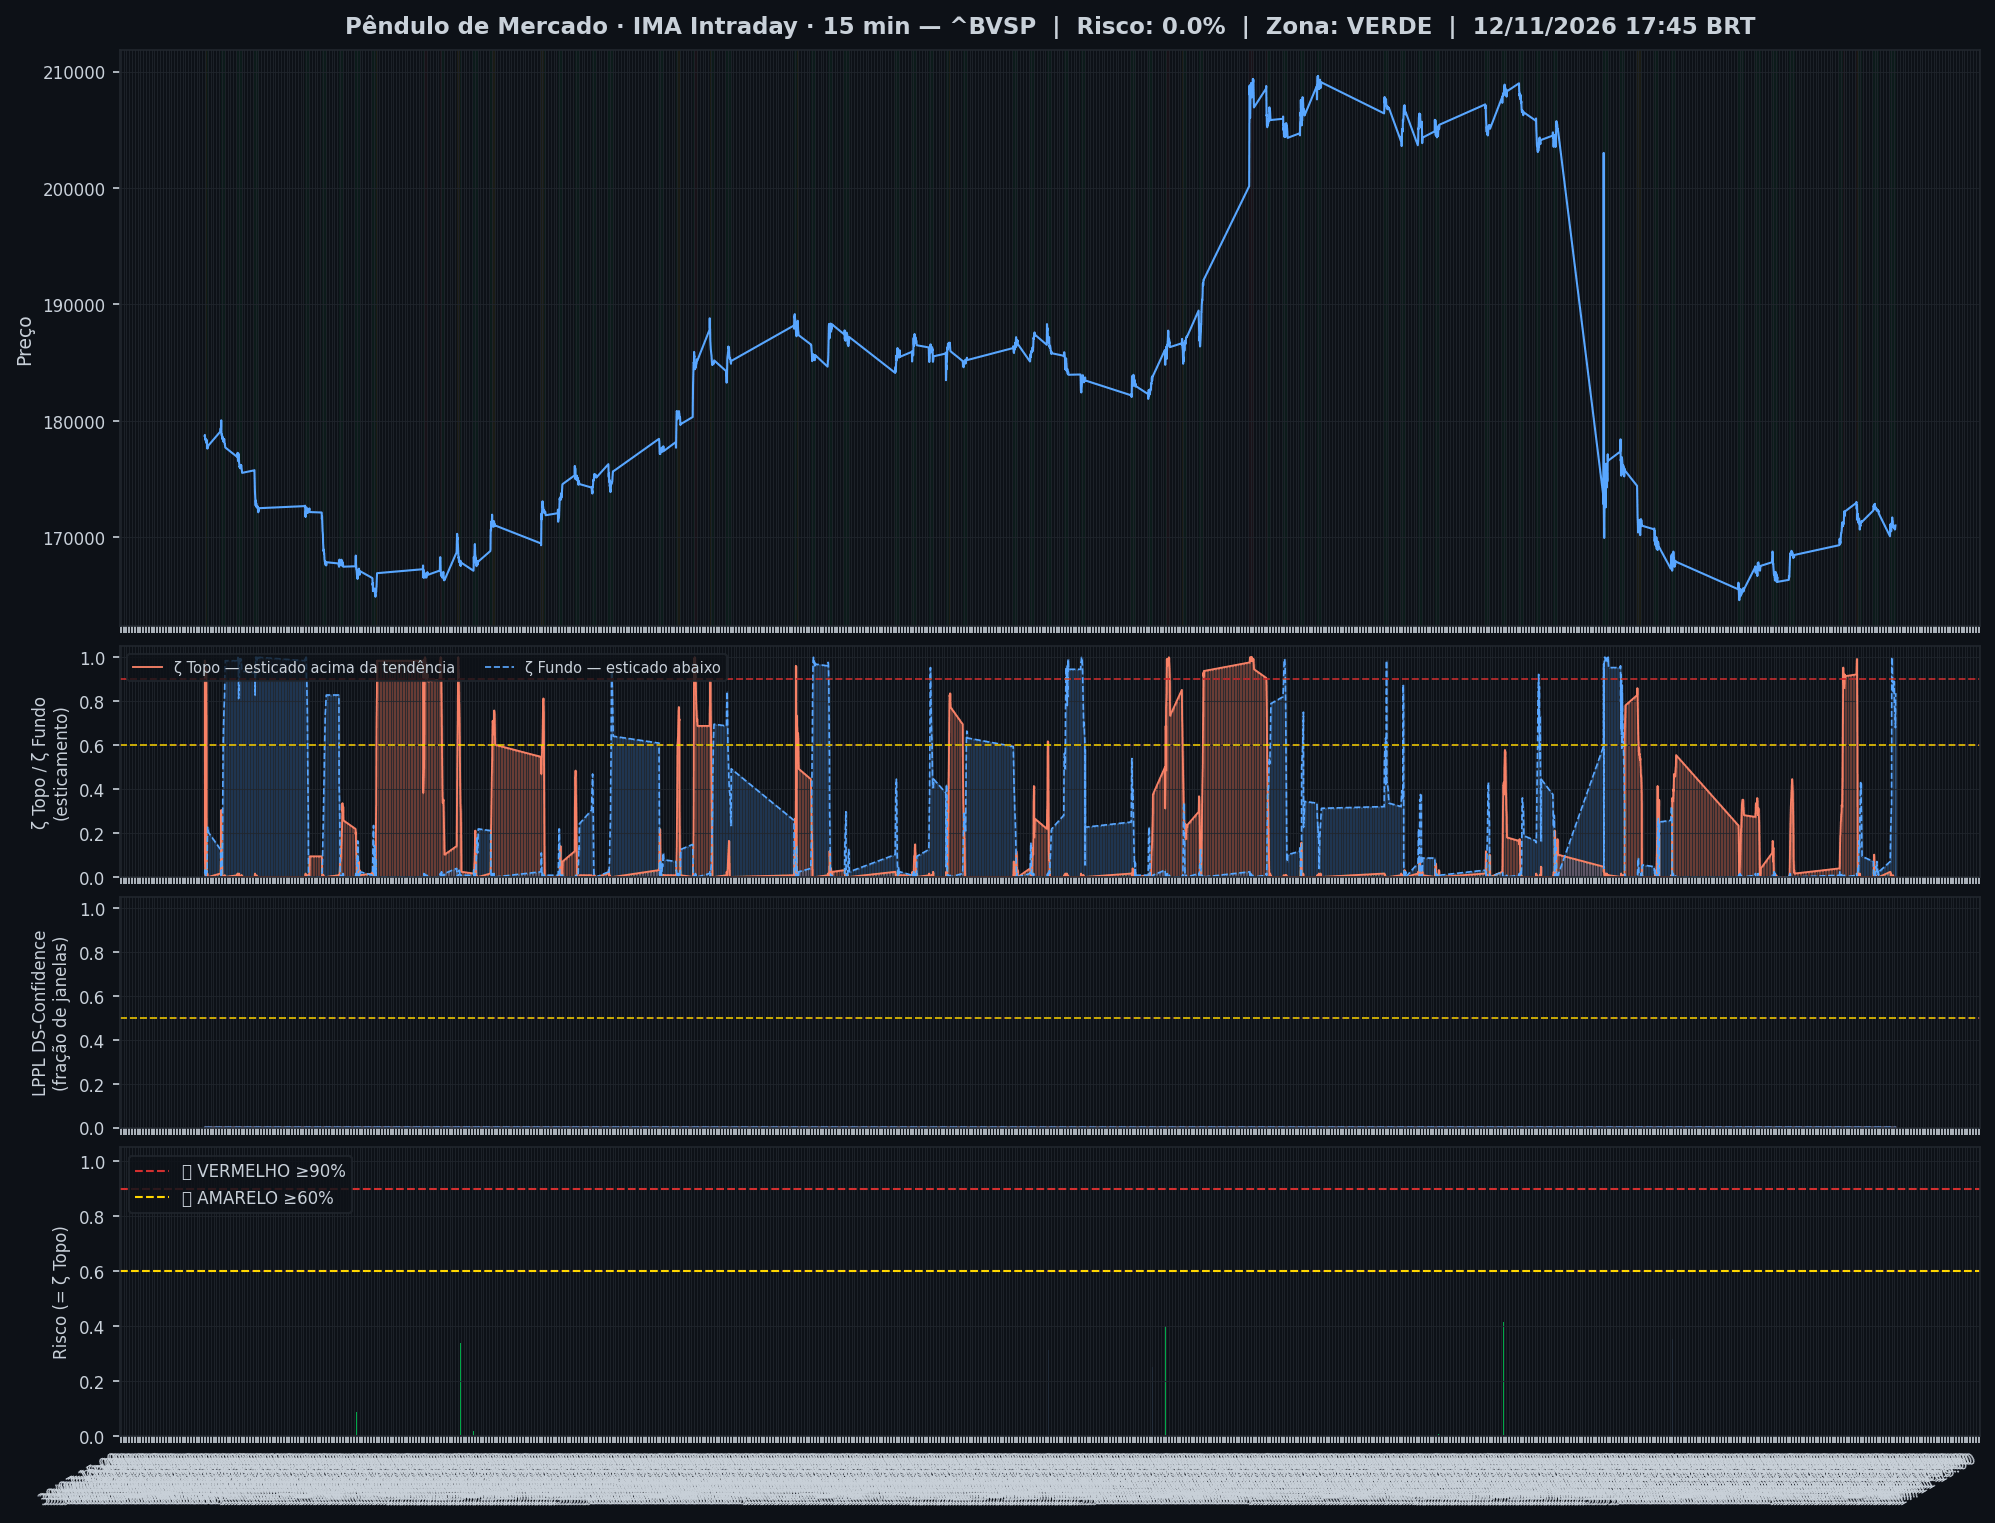
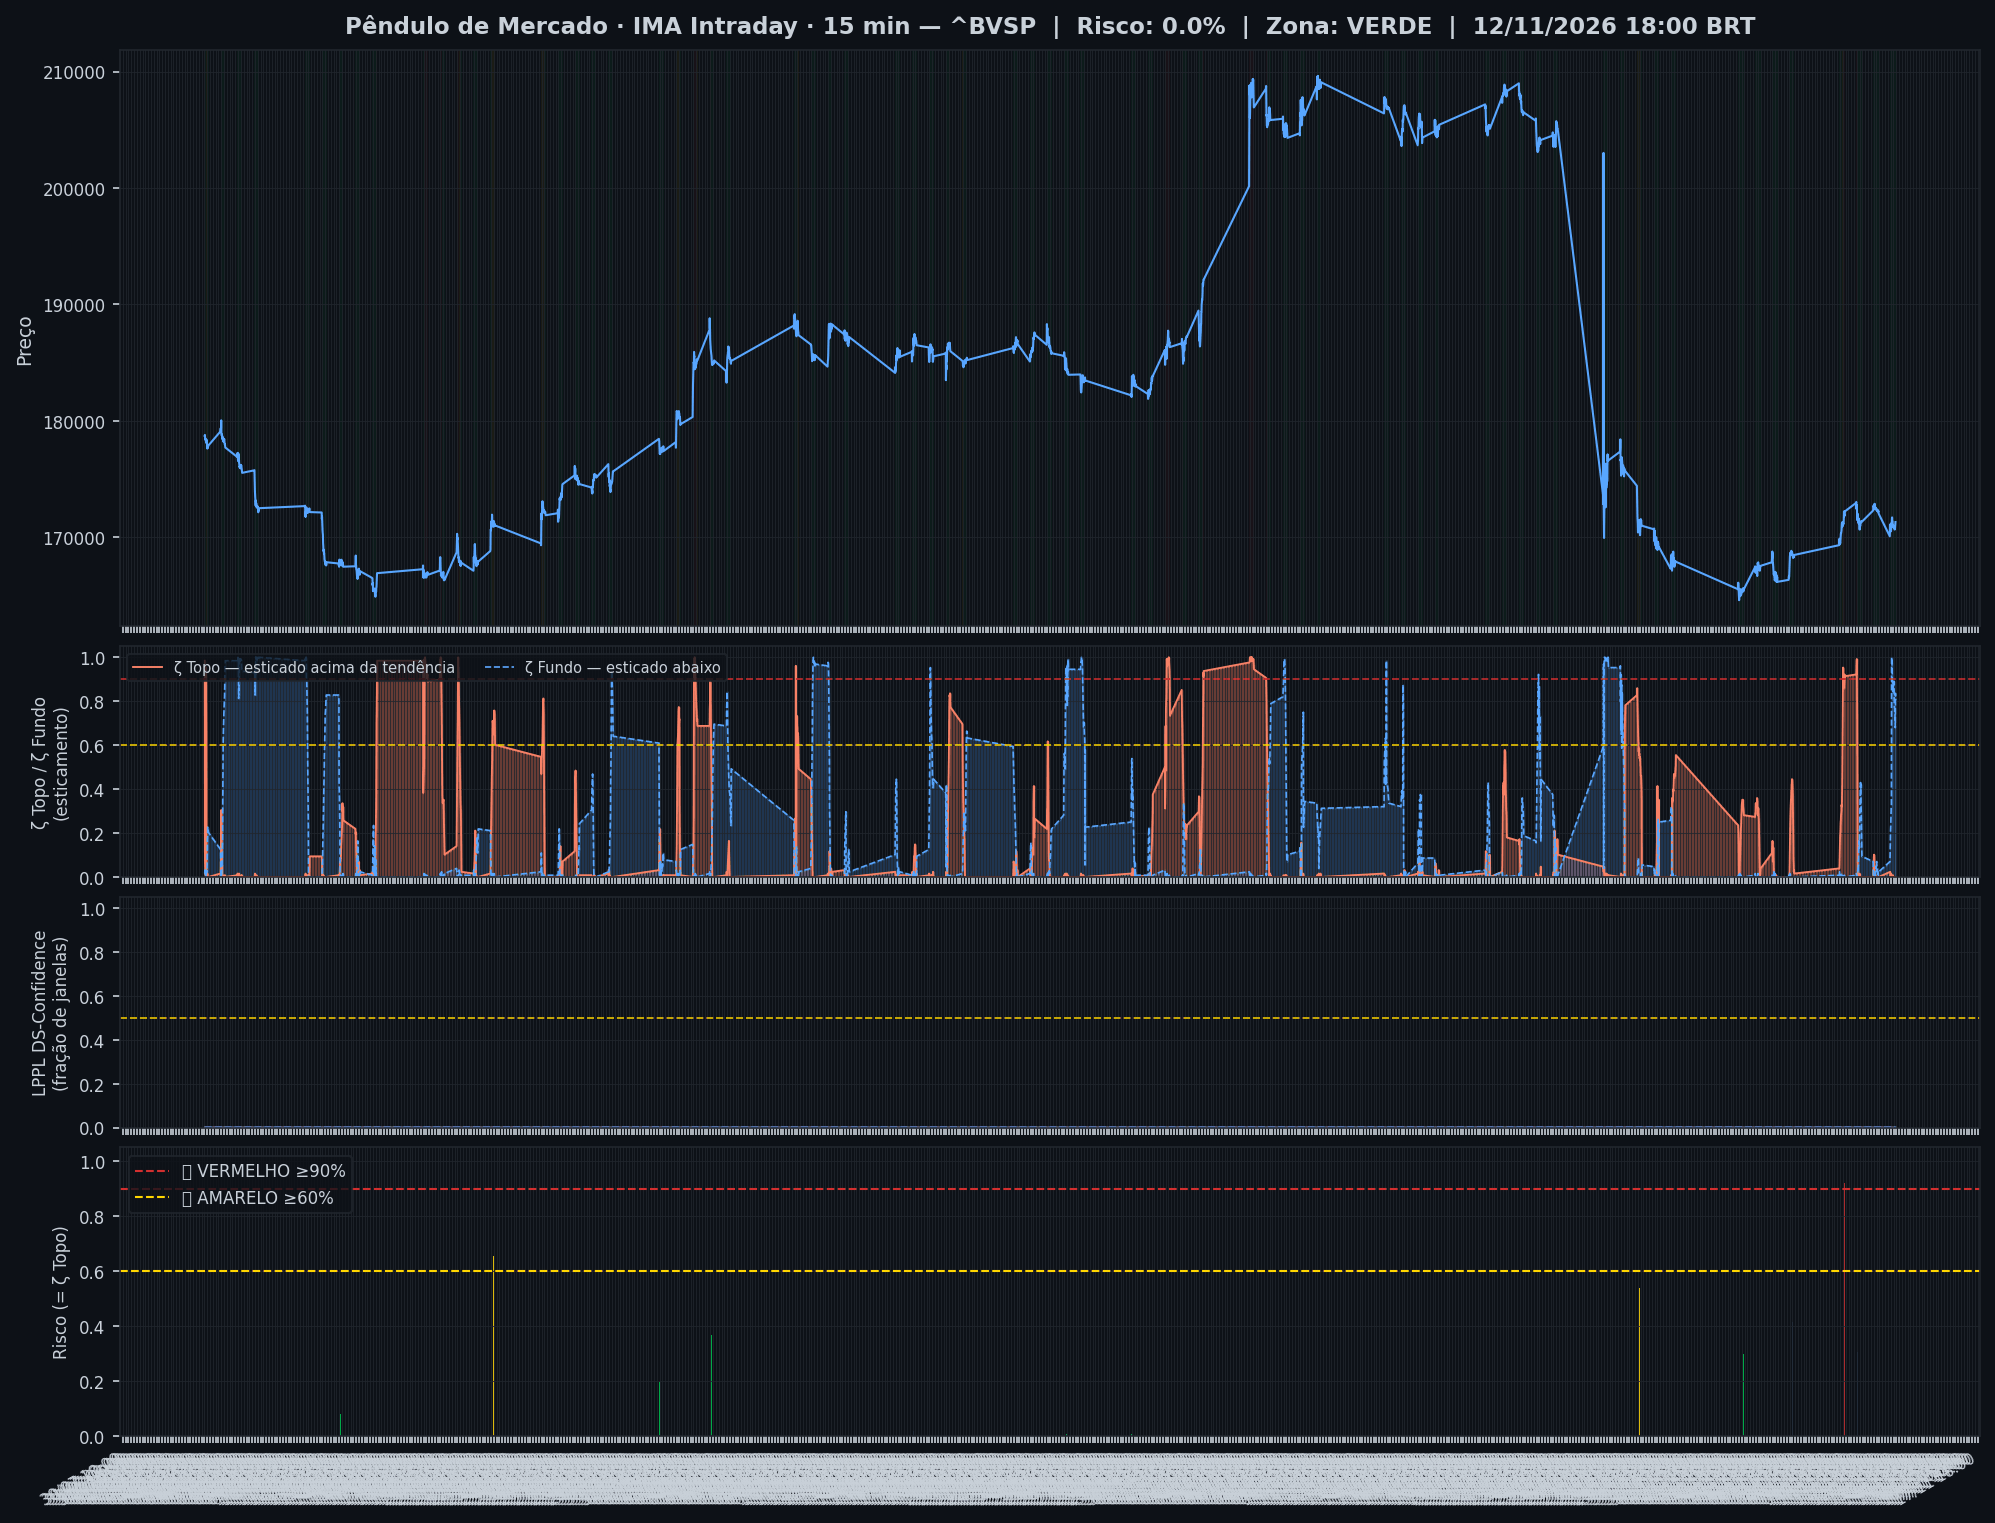
🤖 Auto: Sinal 12/11/2026 18:16

Changed region(s): [[0.0932, 0.432, 0.9634, 0.5863], [0.0311, 0.9258, 0.9945, 0.9875]]

diff --git a/content/intraday/2026-11-12.md b/content/intraday/2026-11-12.md
@@ -1,10 +1,10 @@
 ---
-title: "🟢 Intraday 12/11/2026 17:45 BRT — VERDE"
+title: "🟢 Intraday 12/11/2026 18:00 BRT — VERDE"
 date: 2026-11-12
 tags: [intraday]
 ---
 
-> [!info] Onde o mercado está agora (12/11 17:45, candles de 15 min): **🔵 Esticado para baixo**
+> [!info] Onde o mercado está agora (12/11 18:00, candles de 15 min): **🔵 Esticado para baixo**
 > `Pânico ◀──●──────────────────▶ Euforia`
 >
 > O Ibovespa caiu mais rápido que o normal e está abaixo da sua faixa habitual.
@@ -20,26 +20,26 @@ tags: [intraday]
 > | 📍 **Sinais** | hoje: nenhum sinal | [abrir](sinais-topo-fundo/) |
 > | 🧪 **Placar ao vivo** | 1 operação(ões), 0 com lucro, soma -0,8% | [abrir](operacoes/) |
 
-> [!success] IMA Intraday · 15 min (12/11 17:45): 🟢 **VERDE** — Risco 0% · ＝ +0 p.p. vs leitura anterior
+> [!success] IMA Intraday · 15 min (12/11 18:00): 🟢 **VERDE** — Risco 0% · ＝ +0 p.p. vs leitura anterior
 > `░░░░░░░░░░░░░░░░░░░░`
 > Preço na faixa normal em torno da tendência.
 
 
-> [!warning] ⚠ Nível alto agora — IMA Intraday · 15 min (12/11 17:45)
-> - 🔵 **ζ Fundo 84%** — preço esticado abaixo da tendência
+> [!warning] ⚠ Nível alto agora — IMA Intraday · 15 min (12/11 18:00)
+> - 🔵 **ζ Fundo 80%** — preço esticado abaixo da tendência
 
 > [!note] 🧭 IMA Diário · viés (11/11): 🌱 **Fundo se desfazendo**
 > 📚 só contexto: o pânico passou; sem vantagem estatística confirmada para comprar só por isso
 >
 > *Leitura educacional baseada em 26 anos de dados, não recomendação. [Como usar](../metodologia/crise#3-como-usar-na-prática).*
 
-| Indicador — IMA Intraday · 15 min (12/11 17:45) | Valor |
+| Indicador — IMA Intraday · 15 min (12/11 18:00) | Valor |
 |---|---|
 | 🔴 ζ Topo — preço esticado acima da tendência | **0%** |
-| 🔵 ζ Fundo — preço esticado abaixo da tendência | 🔵 **84%** |
+| 🔵 ζ Fundo — preço esticado abaixo da tendência | 🔵 **80%** |
 | 🫧 LPPL bolha — alta super-exponencial (risco de crash) | 0% |
 | 🫧 LPPL antibolha — queda super-exponencial (risco de repique) | 0% |
-| 📊 Ibovespa | 171.036 pts |
+| 📊 Ibovespa | 171.324 pts |
 
 ![Gráfico do sinal](../graficos/sinal_intraday.png)
 
@@ -47,6 +47,7 @@ tags: [intraday]
 
 | Data | Zona | Evento | Risco | ζ Topo | ζ Fundo | LPPL |
 |---|---|---|---|---|---|---|
+| 2026-11-12 18:00 | 🟢 VERDE |  | **0%** | 0% | 🔵 **80%** | 0% |
 | 2026-11-12 17:45 | 🟢 VERDE |  | **0%** | 0% | 🔵 **84%** | 0% |
 | 2026-11-12 17:30 | 🟢 VERDE |  | **0%** | 0% | 🔵 **68%** | 0% |
 | 2026-11-12 17:15 | 🟢 VERDE |  | **0%** | 0% | 🔵 **71%** | 0% |
@@ -76,52 +77,51 @@ tags: [intraday]
 | 2026-11-12 11:15 | 🟢 VERDE |  | **2%** | 2% | 27% | 0% |
 | 2026-11-12 11:00 | 🟢 VERDE |  | **1%** | 1% | 23% | 0% |
 | 2026-11-12 10:45 | 🟢 VERDE |  | **0%** | 0% | 21% | 0% |
-| 2026-11-12 10:30 | 🟢 VERDE |  | **1%** | 1% | 17% | 0% |
 
 <small>Destaques: 🟡 ≥ 60% · 🔴 ≥ 90% (Risco e ζ Topo) · 🔵 ≥ 60% · 🔪 ≥ 90% (ζ Fundo) · 🫧 ≥ 30% · 🫧🔴 ≥ 50% (LPPL)</small>
 
 ## Monitor Multi-Ativo
 
-**15% dos ativos em tensão** (3🔴 2🟡) · **9 com ζ Fundo alto** — quanto mais ativos disparam juntos, mais confiável o sinal.
+**15% dos ativos em tensão** (2🔴 3🟡) · **8 com ζ Fundo alto** — quanto mais ativos disparam juntos, mais confiável o sinal.
 
 > [!danger] Em destaque no multi-ativo
-> 🔪 **SABESP** ζ Fundo 100% · 🔴 **ULTRAPAR** ζ Topo 99% · 🔪 **TELEF BRASIL** ζ Fundo 98% · 🔪 **COPEL** ζ Fundo 95% · 🔪 **ITAUSA** ζ Fundo 95% · 🔪 **AXIA ENERGIA** ζ Fundo 94% · 🔴 **GERDAU** ζ Topo 91% · 🔵 **ITAUUNIBANCO** ζ Fundo 85% · 🟡 **VIBRA** ζ Topo 80% · 🔵 **BRASIL** ζ Fundo 75% · 🟡 **PETROBRAS** ζ Topo 66% · 🔵 **BTGP BANCO** ζ Fundo 66% · 🔵 **AMBEV S/A** ζ Fundo 61%
+> 🔪 **SABESP** ζ Fundo 99% · 🔴 **ULTRAPAR** ζ Topo 98% · 🔪 **TELEF BRASIL** ζ Fundo 98% · 🔴 **GERDAU** ζ Topo 91% · 🔵 **AXIA ENERGIA** ζ Fundo 88% · 🔵 **COPEL** ζ Fundo 88% · 🔵 **ITAUUNIBANCO** ζ Fundo 76% · 🟡 **VIBRA** ζ Topo 74% · 🔵 **BRASIL** ζ Fundo 73% · 🔵 **ITAUSA** ζ Fundo 70% · 🟡 **PETROBRAS** ζ Topo 65% · 🔵 **AMBEV S/A** ζ Fundo 62%
 
 | Zona | Ativo | Setor | ζ Topo | ζ Fundo |
 |---|---|---|---|---|
-| 🟢 | **SABESP** | Saneamento | 0.0% | 🔪 **100.0%** |
-| 🔴 | **ULTRAPAR** | Outros | 🔴 **99.2%** | 0.0% |
-| 🟢 | **TELEF BRASIL** | Outros | 0.0% | 🔪 **98.4%** |
-| 🟢 | **COPEL** | Energia | 0.0% | 🔪 **95.3%** |
-| 🟢 | **ITAUSA** | Financeiro | 0.0% | 🔪 **94.5%** |
-| 🟢 | **AXIA ENERGIA** | Energia | 0.0% | 🔪 **93.8%** |
+| 🟢 | **SABESP** | Saneamento | 0.0% | 🔪 **99.2%** |
+| 🔴 | **ULTRAPAR** | Outros | 🔴 **98.4%** | 0.8% |
+| 🟢 | **TELEF BRASIL** | Outros | 0.0% | 🔪 **97.7%** |
 | 🔴 | **GERDAU** | Siderurgia | 🔴 **90.6%** | 0.0% |
-| 🟢 | **ITAUUNIBANCO** | Financeiro | 0.0% | 🔵 **85.2%** |
-| 🔴 | **VIBRA** | Energia | 🟡 **79.7%** | 0.0% |
-| 🟢 | **BRASIL** | Financeiro | 0.0% | 🔵 **75.0%** |
-| 🟡 | **PETROBRAS** | Petróleo | 🟡 **66.4%** | 0.0% |
-| 🟢 | **BTGP BANCO** | Financeiro | 0.0% | 🔵 **66.4%** |
-| 🟢 | **AMBEV S/A** | Consumo | 0.0% | 🔵 **60.9%** |
-| 🟡 | **PETROBRAS** | Petróleo | 57.0% | 0.0% |
-| 🟢 | **ENEVA** | Energia | 0.0% | 51.6% |
-| 🟢 | **EQUATORIAL** | Energia | 0.0% | 46.1% |
+| 🟢 | **AXIA ENERGIA** | Energia | 0.8% | 🔵 **87.5%** |
+| 🟢 | **COPEL** | Energia | 0.0% | 🔵 **87.5%** |
+| 🟢 | **ITAUUNIBANCO** | Financeiro | 0.0% | 🔵 **75.8%** |
+| 🟡 | **VIBRA** | Energia | 🟡 **74.2%** | 0.0% |
+| 🟢 | **BRASIL** | Financeiro | 0.0% | 🔵 **72.7%** |
+| 🟢 | **ITAUSA** | Financeiro | 0.0% | 🔵 **69.5%** |
+| 🟡 | **PETROBRAS** | Petróleo | 🟡 **64.8%** | 0.0% |
+| 🟢 | **AMBEV S/A** | Consumo | 0.0% | 🔵 **62.5%** |
+| 🟢 | **BTGP BANCO** | Financeiro | 0.0% | 58.6% |
+| 🟡 | **PETROBRAS** | Petróleo | 55.5% | 0.0% |
 | 🟢 | **USD/BRL** | Câmbio | 43.0% | 0.0% |
-| 🟢 | **PRIO** | Petróleo | 39.8% | 0.8% |
-| 🟢 | **BRADESCO** | Financeiro | 0.0% | 35.2% |
-| 🟢 | **REDE D OR** | Saúde | 0.0% | 25.0% |
-| 🟢 | **LOCALIZA** | Aluguel | 0.0% | 21.1% |
-| 🟢 | **SUZANO S.A.** | Papel/Celulose | 17.2% | 0.0% |
+| 🟢 | **EQUATORIAL** | Energia | 0.0% | 39.8% |
+| 🟢 | **ENEVA** | Energia | 0.0% | 37.5% |
+| 🟢 | **PRIO** | Petróleo | 35.9% | 0.8% |
+| 🟢 | **BRADESCO** | Financeiro | 0.0% | 22.7% |
+| 🟢 | **SUZANO S.A.** | Papel/Celulose | 18.0% | 0.0% |
 | 🟢 | **WEG** | Industrial | 14.1% | 0.0% |
-| 🟢 | **VALE** | Mineração | 0.0% | 10.2% |
-| 🟢 | **B3** | Financeiro | 0.0% | 8.6% |
-| 🟢 | **EMBRAER** | Outros | 1.6% | 0.8% |
+| 🟢 | **VALE** | Mineração | 0.0% | 10.9% |
+| 🟢 | **REDE D OR** | Saúde | 1.6% | 10.9% |
+| 🟢 | **LOCALIZA** | Aluguel | 0.8% | 10.9% |
+| 🟢 | **B3** | Financeiro | 0.0% | 3.1% |
+| 🟢 | **EMBRAER** | Outros | 0.8% | 0.8% |
 | 🟢 | **BBSEGURIDADE** | Financeiro | 0.8% | 0.0% |
 
 <small>Destaques: 🟡 ≥ 60% · 🔴 ≥ 90% (Risco e ζ Topo) · 🔵 ≥ 60% · 🔪 ≥ 90% (ζ Fundo) · 🫧 ≥ 30% · 🫧🔴 ≥ 50% (LPPL)</small>
 
 ![Monitor multi-ativo](../graficos/multi_intraday.png)
 
-*Página atualizada em 12/11/2026 18:01 BRT (leitura da barra de 2026-11-12 17:45 BRT).*
+*Página atualizada em 12/11/2026 18:16 BRT (leitura da barra de 2026-11-12 18:00 BRT).*
 
 > [!warning] O que este indicador não faz
 > Medido em 5 anos de Ibovespa, o ζ **não antecipa** topos nem fundos: a capacidade de separar o que sobe do que cai ficou em 0,49–0,52, e 0,50 é moeda jogada ao ar. Ele descreve o estado de agora; não é aviso do que vem. As zonas verde/amarelo/vermelho continuam na página como descrição desse estado — **não as use como sinal de entrada ou saída**.

diff --git a/content/index.md b/content/index.md
@@ -6,9 +6,9 @@ tags: [home]
 
 **As ondas do mercado, explicadas.** Leitura do Ibovespa com estatística de 26 anos, baseada no trabalho de pesquisadores e traders reconhecidos e adaptada por Jarbas Daniel da Costa.
 
-*Última atualização: 12/11/2026 18:01 BRT · Intraday 15min*
+*Última atualização: 12/11/2026 18:16 BRT · Intraday 15min*
 
-> [!info] Onde o mercado está agora (12/11 17:45, candles de 15 min): **🔵 Esticado para baixo**
+> [!info] Onde o mercado está agora (12/11 18:00, candles de 15 min): **🔵 Esticado para baixo**
 > `Pânico ◀──●──────────────────▶ Euforia`
 >
 > O Ibovespa caiu mais rápido que o normal e está abaixo da sua faixa habitual.
@@ -16,8 +16,8 @@ tags: [home]
 >
 > *Leitura educacional baseada em 26 anos de dados. Não é recomendação de investimento.*
 
-> [!warning] ⚠ Nível alto agora — IMA Intraday · 15 min (12/11 17:45)
-> - 🔵 **ζ Fundo 84%** — preço esticado abaixo da tendência
+> [!warning] ⚠ Nível alto agora — IMA Intraday · 15 min (12/11 18:00)
+> - 🔵 **ζ Fundo 80%** — preço esticado abaixo da tendência
 
 ## Agora
 
@@ -47,26 +47,26 @@ tags: [home]
 > *Leitura educacional baseada em 26 anos de dados, não recomendação. [Como usar](metodologia/crise#3-como-usar-na-prática).*
 
 > [!info]- 🌊 Detalhes do Sinal IMA (indicadores e últimos 7 pregões)
-> > [!success] IMA Intraday · 15 min (12/11 17:45): 🟢 **VERDE** — Risco 0% · ＝ +0 p.p. vs leitura anterior
+> > [!success] IMA Intraday · 15 min (12/11 18:00): 🟢 **VERDE** — Risco 0% · ＝ +0 p.p. vs leitura anterior
 > > `░░░░░░░░░░░░░░░░░░░░`
 > > Preço na faixa normal em torno da tendência.
 >
 >
-> | Indicador — IMA Intraday · 15 min (12/11 17:45) | Valor |
+> | Indicador — IMA Intraday · 15 min (12/11 18:00) | Valor |
 > |---|---|
 > | 🔴 ζ Topo — preço esticado acima da tendência | **0%** |
-> | 🔵 ζ Fundo — preço esticado abaixo da tendência | 🔵 **84%** |
+> | 🔵 ζ Fundo — preço esticado abaixo da tendência | 🔵 **80%** |
 > | 🫧 LPPL bolha — alta super-exponencial (risco de crash) | 0% |
 > | 🫧 LPPL antibolha — queda super-exponencial (risco de repique) | 0% |
-> | 📊 Ibovespa | 171.036 pts |
+> | 📊 Ibovespa | 171.324 pts |
 >
-> **Multi-ativo:** 15% em tensão (3🔴 2🟡 de 27 ativos)
+> **Multi-ativo:** 15% em tensão (2🔴 3🟡 de 27 ativos)
 >
 > **Últimos 7 pregões**
 >
 > | Data | Zona | Risco | ζ Topo | ζ Fundo | LPPL |
 > |---|---|---|---|---|---|
-> | [12/11/2026](intraday/2026-11-12) | 🟢 VERDE | **0%** | 0% | 🔵 **84%** | 0% |
+> | [12/11/2026](intraday/2026-11-12) | 🟢 VERDE | **0%** | 0% | 🔵 **80%** | 0% |
 >
 > <small>Destaques: 🟡 ≥ 60% · 🔴 ≥ 90% (Risco e ζ Topo) · 🔵 ≥ 60% · 🔪 ≥ 90% (ζ Fundo) · 🫧 ≥ 30% · 🫧🔴 ≥ 50% (LPPL)</small>
 >

diff --git a/content/operacoes/entradas.md b/content/operacoes/entradas.md
@@ -31,7 +31,7 @@ description: "Compra depois de um sinal de fundo: Nadaraya no diário, semáforo
 > | Diário · Semáforo N3 após ζ Fundo | 07/07/26 a 172.021 | 10/08/26 a 172.021 | **+0,0%** | stop no preço de entrada |
 > | H4 · Semáforo N2 | 12/06/26 14h a 171.134 | 15/06/26 14h a 171.134 | **+0,0%** | stop no preço de entrada |
 >
-> <small>Atualizado 11/11 19:00 · checado no pregão às 18:00. Nota: ✅ passou no teste fora da amostra (walk-forward 2008–2026) · 🧪 em teste (H4, com aviso no Telegram) ou em observação (ζ, sem aviso) · 🧪 na tabela = operação do teste ao vivo.</small>
+> <small>Atualizado 11/11 19:00 · checado no pregão às 18:15. Nota: ✅ passou no teste fora da amostra (walk-forward 2008–2026) · 🧪 em teste (H4, com aviso no Telegram) ou em observação (ζ, sem aviso) · 🧪 na tabela = operação do teste ao vivo.</small>
 >
 > *Regras: depois de um sinal de fundo, o Diário entra quando o Nadaraya vira para cima; o Semanal e o H4 entram quando um fundo do semáforo fica fixo. Stop e saída de cada regra na [metodologia](metodologia/regras-de-operacao#entradas-do-método). Nenhuma regra de venda passou no teste. Os números do histórico têm viés de escolha (overfitting); o placar ao vivo é o que vale. Leitura educacional do método, não recomendação.*
 

diff --git a/content/historico.md b/content/historico.md
@@ -5,7 +5,7 @@ tags: [historico]
 
 # 📜 Histórico de leituras (v5)
 
-**2.344 leituras** desde 2026-07-03. Na página ficam os últimos 3 dias leitura por leitura e o resumo de cada dia anterior; o registro inteiro está no arquivo para baixar.
+**2.345 leituras** desde 2026-07-03. Na página ficam os últimos 3 dias leitura por leitura e o resumo de cada dia anterior; o registro inteiro está no arquivo para baixar.
 
 [**Baixar o histórico completo**](historico-completo.csv) (103 KB · abre no Excel e no LibreOffice)
 
@@ -16,6 +16,7 @@ tags: [historico]
 
 | Data | Modo | Zona | Risco | IMA | LPPL |
 |---|---|---|---|---|---|
+| 2026-11-12 18:00 | intraday | 🟢 VERDE | 0% | 0% | 0% |
 | 2026-11-12 17:45 | intraday | 🟢 VERDE | 0% | 0% | 0% |
 | 2026-11-12 17:30 | intraday | 🟢 VERDE | 0% | 0% | 0% |
 | 2026-11-12 17:15 | intraday | 🟢 VERDE | 0% | 0% | 0% |

diff --git a/content/operacoes/ranking.md b/content/operacoes/ranking.md
@@ -5,7 +5,7 @@ tags: [operacoes]
 description: "As regras de compra do site ordenadas pelo resultado, com treino, teste e placar ao vivo"
 ---
 
-*Atualizado 12/11/2026 18:01 · histórico simulado com as regras congeladas em 23/10/2026 + placar ao vivo.*
+*Atualizado 12/11/2026 18:16 · histórico simulado com as regras congeladas em 23/10/2026 + placar ao vivo.*
 
 As regras de compra do site, **da que mais rendeu para a que menos rendeu**. O resultado é por operação, no índice à vista, sem custos e sem juros compostos (a soma é só a soma das operações). **Treino** = entradas de 2001 a 2013 e **teste** = 2014 em diante: uma regra só é confiável se ganhou nos dois. O único resultado sem nenhum ajuste ao histórico é o **placar ao vivo**.
 

diff --git a/content/linha-do-tempo/index.md b/content/linha-do-tempo/index.md
@@ -5,7 +5,7 @@ description: "Todo sinal, ordem, stop e aviso do Pêndulo de Mercado, do mais re
 tags: [eventos]
 ---
 
-*Atualizada 12/11/2026 18:01 BRT · a cada 15 min no pregão e às 19h.*
+*Atualizada 12/11/2026 18:16 BRT · a cada 15 min no pregão e às 19h.*
 
 Tudo o que o sistema fez ou detectou, **do mais recente para o mais antigo**: sinais de topo e fundo, ordens de compra e de venda armadas, compras, vendas, stops, avisos de 🚨 preço perto do nível e mudanças do Sinal IMA. Os **últimos 7 dias** ficam abertos; o resto, por **ano → mês → dia**.
 
